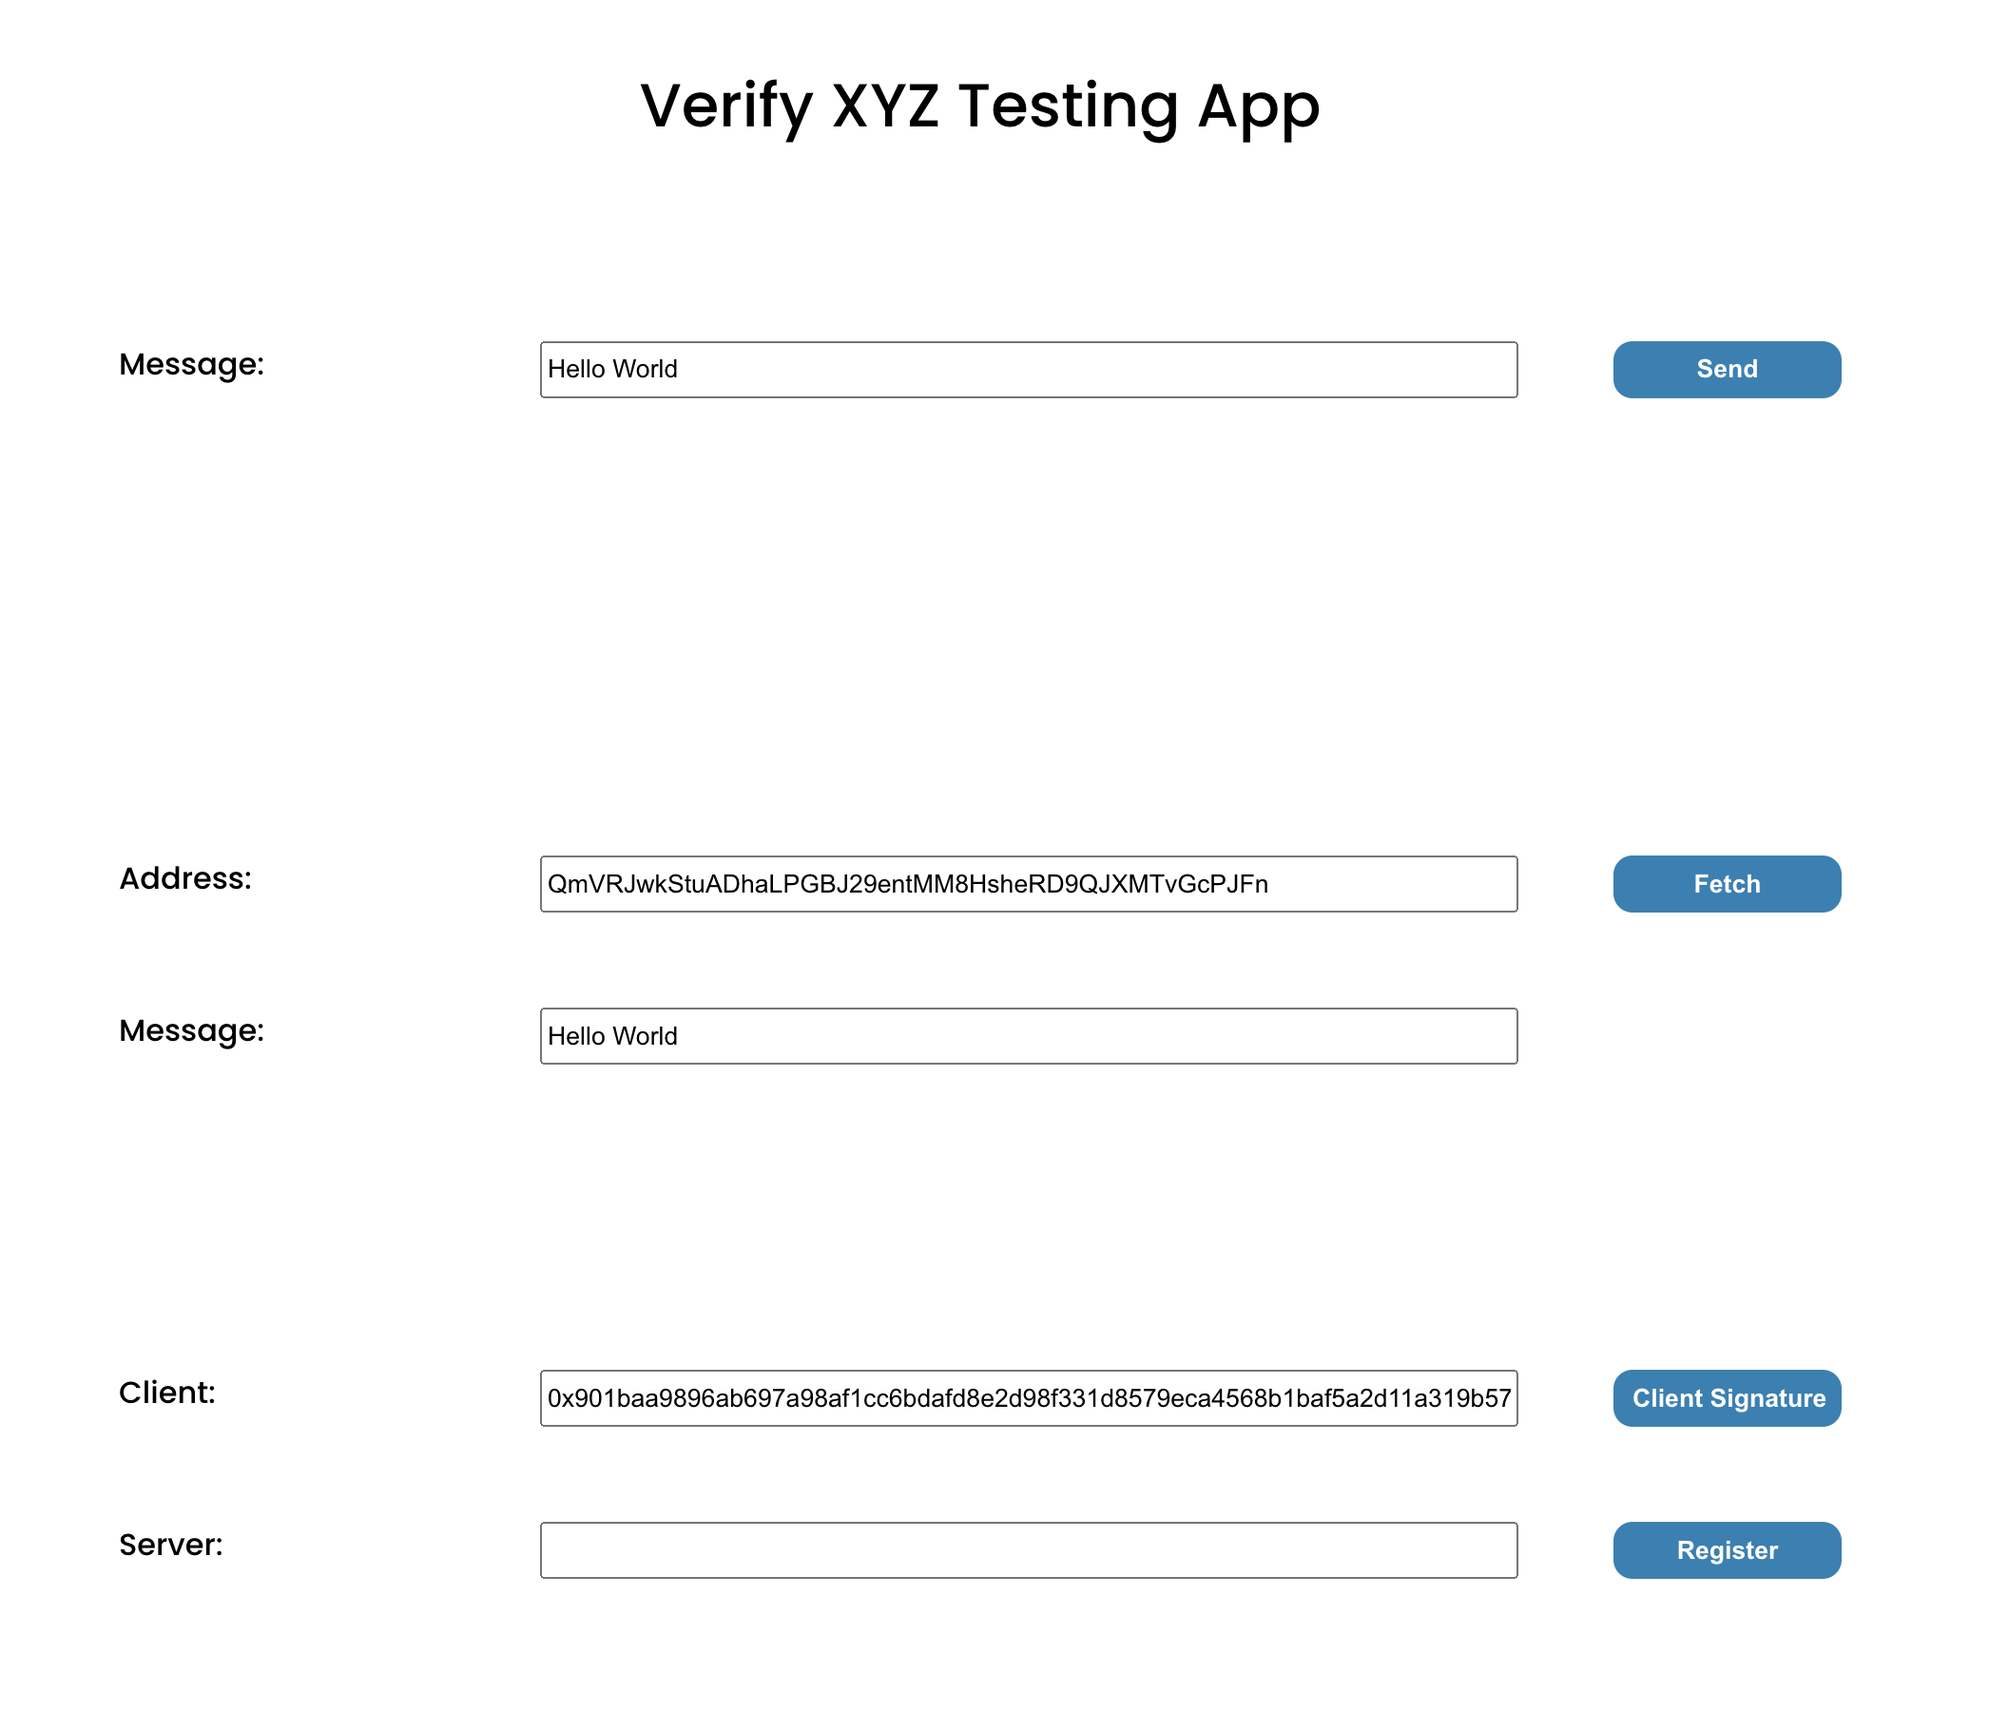
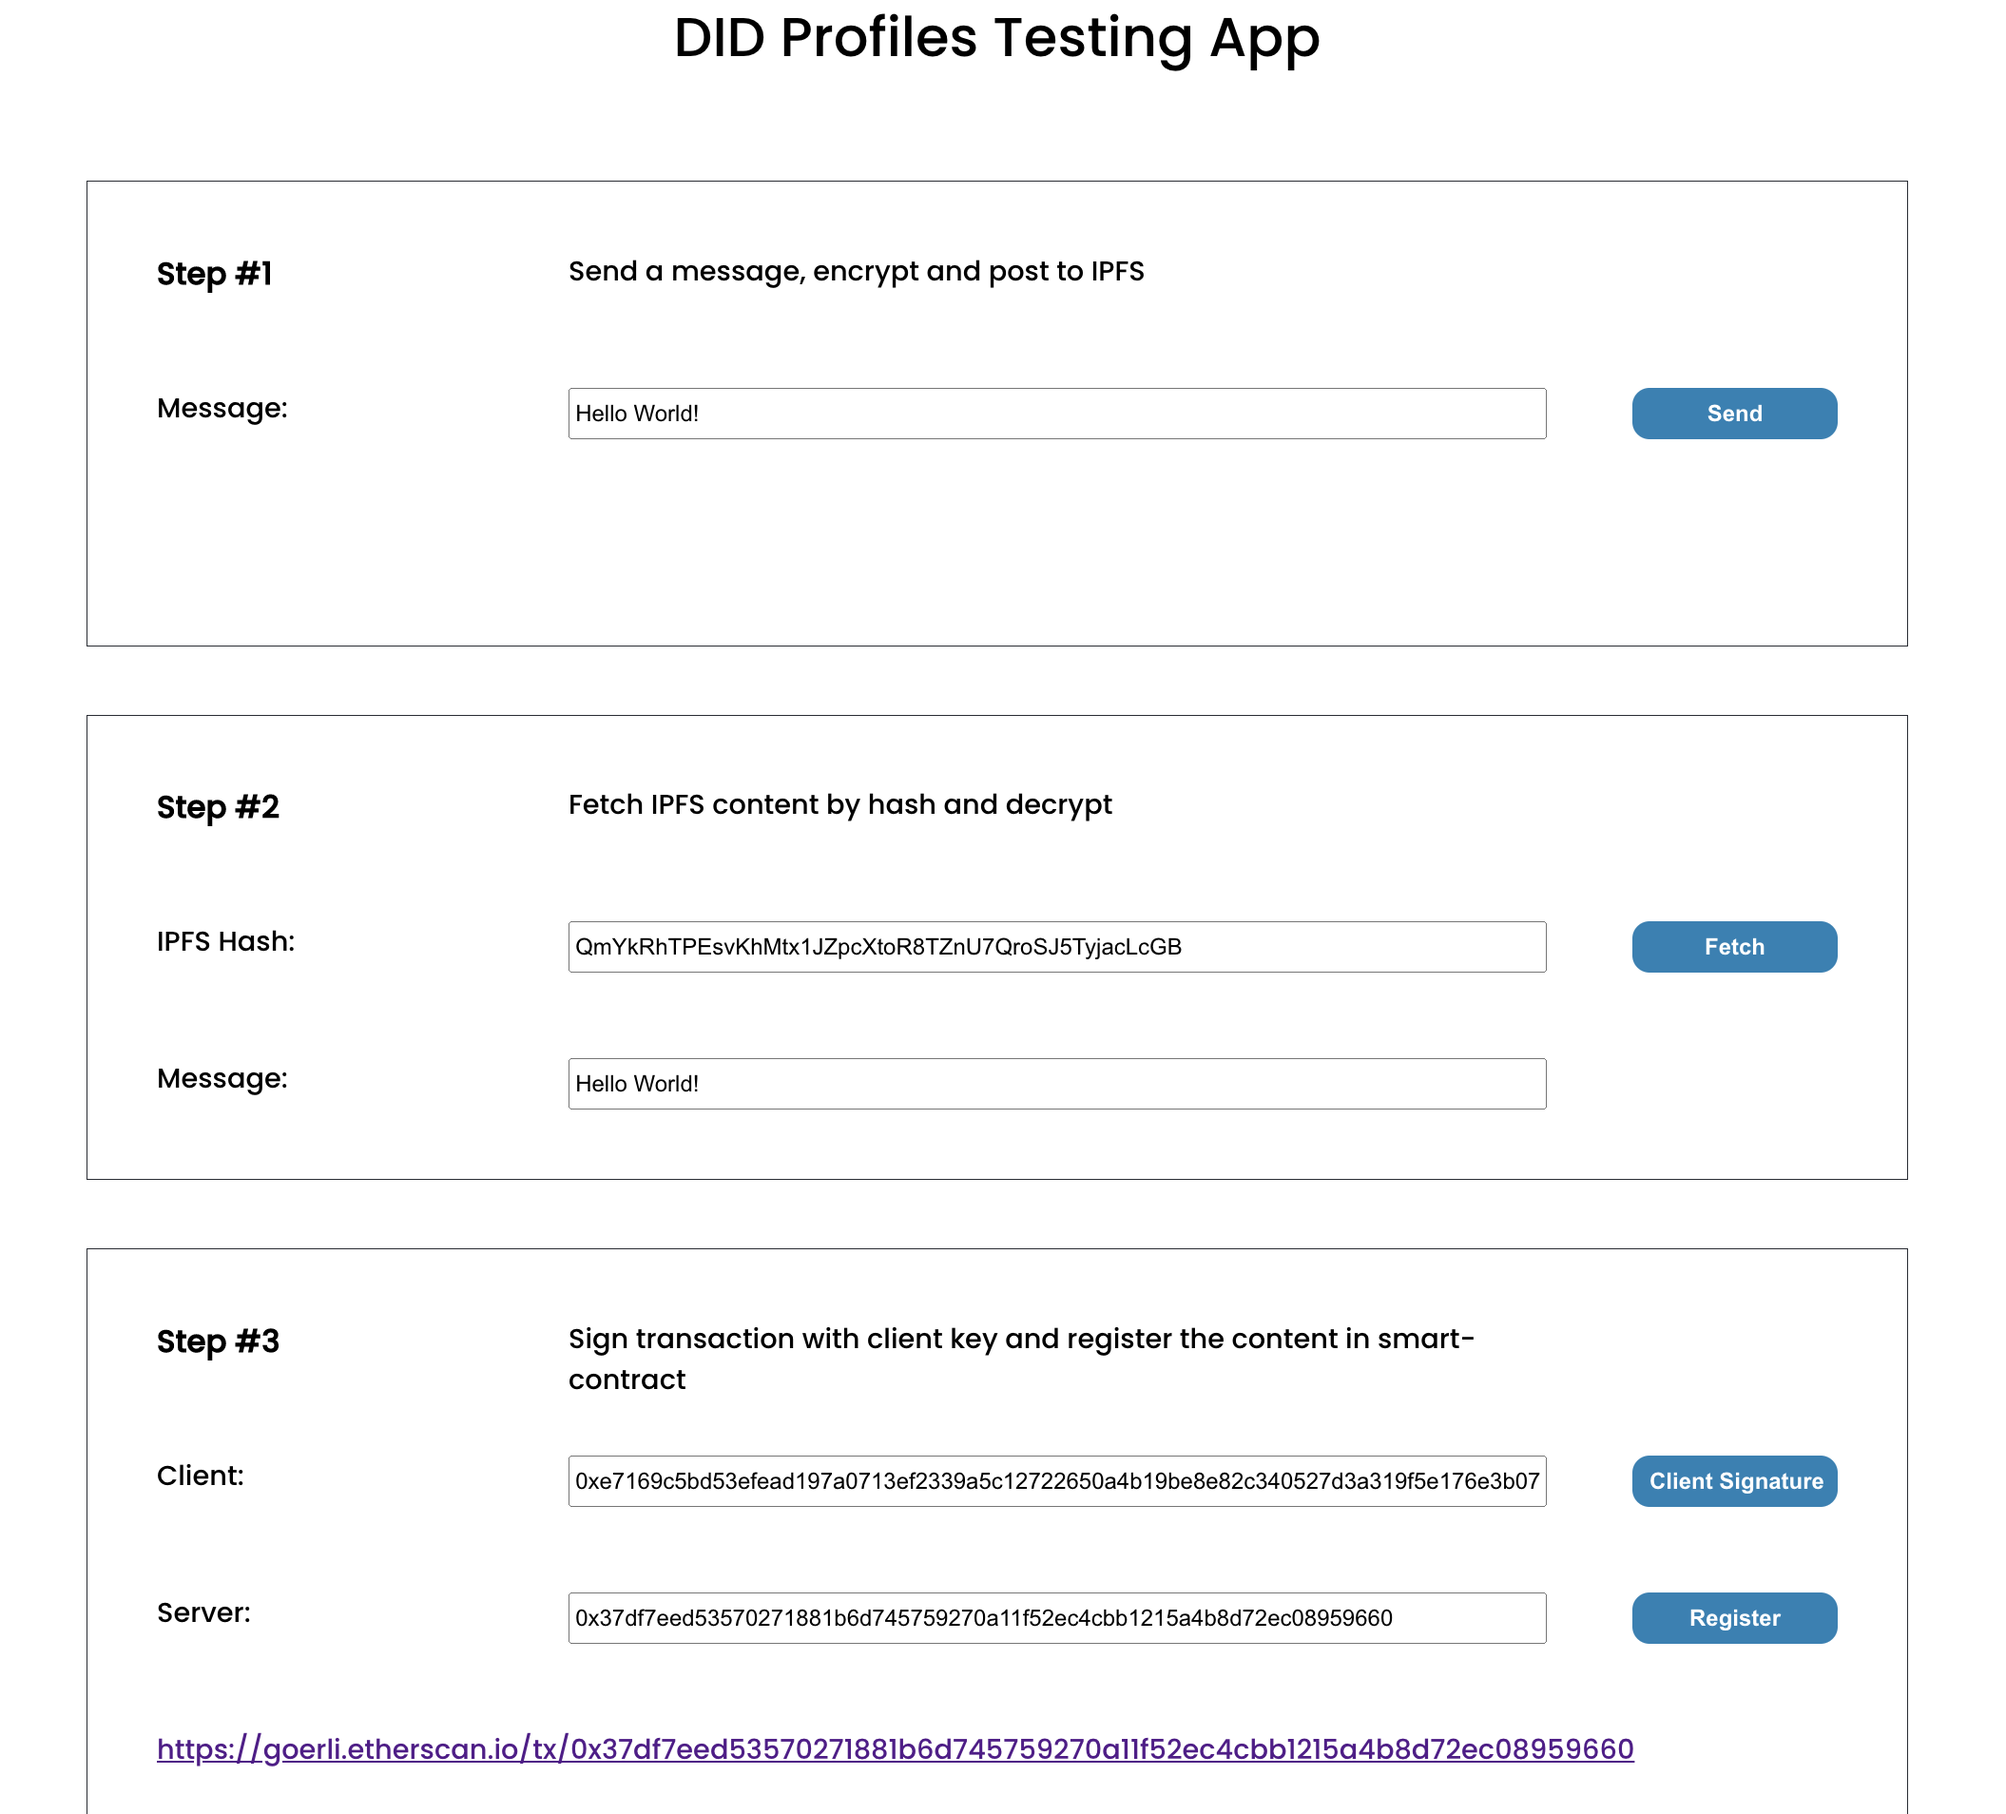
milestone report and testing app step through

diff --git a/frontend/src/App.js b/frontend/src/App.js
@@ -7,6 +7,7 @@ import { ClientSign } from './network/client-sign';
 function App() {
     const [message, setMessage] = useState('');
     const [address, setAddress] = useState('');
+    const [txRecord, setTxRecord] = useState('');
 
     useEffect(() => {
         console.log(message);
@@ -38,29 +39,55 @@ function App() {
     /**
      * Send button clicked - handler function
      */
-    function sendButtonClickedHandler() {
+    async function sendButtonClickedHandler() {
         const inputMessage = window.document.getElementById('messageID').value;
-        sendMessageToIPFS(inputMessage);
         setMessage(inputMessage);
+
+        // Disable button until after response
+        const btn = window.document.getElementById('step1Btn');
+        btn.setAttribute('disabled', 'disabled');
+
+        // Clear subsequent fields
+        window.document.getElementById('clientSignatureID').value = '';
+        window.document.getElementById('serverSignatureID').value = '';
+        window.document.getElementById('receivedMessageID').value = '';
+        window.document.getElementById('addressID').value = '';
+
+        await sendMessageToIPFS(inputMessage);
+
+        btn.removeAttribute('disabled');
     };
 
     /**
      * Fetch button click - handler function
      */
-    function fetchButtonClickedHandler() {
+    async function fetchButtonClickedHandler() {
         const inputAddress = window.document.getElementById('addressID').value;
-        getMessageFromIPFS(inputAddress);
         setAddress(inputAddress);
+
+        // Disable button until after response
+        const btn = window.document.getElementById('step2Btn');
+        btn.setAttribute('disabled', 'disabled');
+
+        // Clear subsequent fields
+        window.document.getElementById('clientSignatureID').value = '';
+        window.document.getElementById('serverSignatureID').value = '';
+        window.document.getElementById('receivedMessageID').value = '';
+
+        await getMessageFromIPFS(inputAddress);
+
+        btn.removeAttribute('disabled');
     };
 
     /**
      * Client signature button click - handler function
      */
     async function clientSignatureButtonClickedHandler() {
+        const clientSigBody = createHardCodedClientSignatureBody();
+
+        // Clear subsequent fields
         window.document.getElementById('clientSignatureID').value = '';
         window.document.getElementById('serverSignatureID').value = '';
-
-        const clientSigBody = createHardCodedClientSignatureBody();
 
         // CLIENT SIGN AT CLIENT SIDE
         const clientSign = new ClientSign();
@@ -73,6 +100,11 @@ function App() {
      * Server register button click - handler function
      */
     async function serverRegisterButtonClickedHandler() {
+        // Disable button until after response
+        const btn = window.document.getElementById('step3Btn');
+        btn.setAttribute('disabled', 'disabled');
+
+        // Clear subsequent fields
         window.document.getElementById('serverSignatureID').value = '';
 
         const registerServiceBody = createHardCodedRegisterServiceBody();
@@ -80,6 +112,10 @@ function App() {
         const registerHash = await ServerAPI.postRegisterService(registerServiceBodyJSON);
 
         window.document.getElementById('serverSignatureID').value = registerHash;
+
+        setTxRecord('https://goerli.etherscan.io/tx/' + registerHash);
+
+        btn.removeAttribute('disabled');
     };
 
     /**
@@ -118,24 +154,30 @@ function App() {
 
     return (
         <div className="appMainContainer">
-            <h1 className="appHeader">Simple React App</h1>
+            <h1 className="appHeader">DID Profiles Testing App</h1>
 
-            <div className="appGridContainer01">
+            <div className="appGridContainer appGridContainer01">
+                <label className="stepLabel">Step #1 </label><div>Send a message, encrypt and post to IPFS</div><div></div>
+
                 <label className="appLabel">Message:</label>
                 <input className="appInput" id='messageID'></input>
-                <button className="appButtonSend" onClick={sendButtonClickedHandler}>Send</button>
+                <button className="appButtonSend" id="step1Btn" onClick={sendButtonClickedHandler}>Send</button>
             </div>
 
-            <div className="appGridContainer02">
-                <label className="appLabelAddress">Address:</label>
+            <div className="appGridContainer appGridContainer02">
+                <label className="stepLabel">Step #2</label><div>Fetch IPFS content by hash and decrypt</div><div></div>
+
+                <label className="appLabelAddress">IPFS Hash:</label>
                 <input className="appInputAddress" id="addressID" readOnly></input>
-                <button className="appButtonFetch" onClick={fetchButtonClickedHandler}>Fetch</button>
+                <button className="appButtonFetch" id="step2Btn" onClick={fetchButtonClickedHandler}>Fetch</button>
 
                 <label className="appLabel">Message:</label>
                 <input className="appInput" id="receivedMessageID" readOnly></input>
             </div>
 
-            <div className="appGridContainer03">
+            <div className="appGridContainer appGridContainer03">
+                <label className="stepLabel">Step #3</label><div>Sign transaction with client key and register the content in smart-contract</div><div></div>
+
                 <label className="appLabelAddress">Client:</label>
                 <input className="appInputAddress" id="clientSignatureID" readOnly></input>
                 <button className="appButtonFetch" onClick={clientSignatureButtonClickedHandler}>Client Signature</button>
@@ -143,7 +185,9 @@ function App() {
 
                 <label className="appLabel">Server:</label>
                 <input className="appInput" id="serverSignatureID" readOnly></input>
-                <button className="appButtonFetch" onClick={serverRegisterButtonClickedHandler}>Register</button>
+                <button className="appButtonFetch" onClick={serverRegisterButtonClickedHandler} id="step3Btn">Register</button>
+
+                {(txRecord && <a href={txRecord} target="_blank" rel="noreferrer">{txRecord}</a>)}
             </div>
         </div>
     );

diff --git a/frontend/src/styles/styleApp.css b/frontend/src/styles/styleApp.css
@@ -44,6 +44,18 @@ textarea:focus, input:focus {
 
 .appHeader {
     min-height: 10px;
+    margin-bottom: 40px;
+}
+
+.stepLabel {
+    font-size: 18px;
+    font-weight: bold;
+}
+
+.appGridContainer {
+    border: #282c34 1px solid;
+    padding: 40px;
+    margin: 20px;
 }
 
 .appGridContainer01 {
@@ -83,6 +95,11 @@ textarea:focus, input:focus {
     white-space: nowrap;
     text-align: center;
     font-weight: bold;
+}
+
+.appButtonSend:disabled, .appButtonFetch:disabled {
+    pointer-events: none;
+    background-color: darkgray;
 }
 
 .appButtonSend:hover {

diff --git a/frontend/public/index.html b/frontend/public/index.html
@@ -7,7 +7,7 @@
     <meta name="theme-color" content="#000000" />
     <meta
       name="description"
-      content="Web site created using create-react-app"
+      content="DID Publish testing app"
     />
     <link rel="apple-touch-icon" href="%PUBLIC_URL%/logo192.png" />
     <!--

diff --git a/reports/milestone_1.md b/reports/milestone_1.md
@@ -1,0 +1,82 @@
+<p align="center">
+  <a href="https://cabanalabs.com" target="blank"><img src="https://cabanalabs.com/_next/static/media/cabana_logo.7bf4fac6.svg" width="200" alt="Cabana Labs, Inc Logo" /></a>
+<span>&nbsp;&nbsp;&nbsp;&nbsp;&nbsp;&nbsp;&nbsp;&nbsp;X&nbsp;&nbsp;&nbsp;&nbsp;&nbsp;&nbsp;&nbsp;&nbsp;&nbsp;</span>
+  <a href="https://cabanalabs.com" target="blank"><img src="https://github.com/verify-xyz/did-profiles/raw/main/assets/verify_logo.png" width="200" alt="Cabana Labs, Inc Logo" /></a>
+</p>
+
+# Development Work Milestone #1 - DID-Publish
+
+## Overview
+
+This milestone includes the DID-Publish phase. User content is entered, encrypted, stored on IPFS and registered in a DID address on the ethr-did-registry smart contract.
+ A NestJS server provides end-points for receiving content, encrypting and coordinating signing and register.
+A client side app is provided to test the features.
+
+## Setting up the ENV
+
+### IPFS server
+
+Follow the instructions in the [readme.md](https://github.com/verify-xyz/did-profiles/tree/dev/ipfs#readme) to run the daemon.
+
+### Backend
+```bash
+cd backend
+npm install
+npm run start
+```
+
+### Frontend
+```bash
+cd frontend
+npm install
+npm run start
+```
+### Using the Testing App
+
+
+<img src="https://github.com/verify-xyz/did-profiles/raw/dev/reports/images/testing_app_1.png" width="600" alt="Cabana Labs, Inc Logo" /></a>
+
+
+### Step #1
+
+Send any message to be encrypted and posted to the local IPFS server
+
+After seeing the IPFS hash in step2 be populated, you can check the IPFS content by command line
+
+For example
+```bash
+curl http://localhost:8080/ipfs/QmZdmJigMEqPqW3pBJHFQAoN8KYjgg5wh4tzbVCwLxXRXR
+```
+The response will be the encrypted content saved to IPFS
+
+Example
+```json
+{
+  "account": {
[1 lines of base64/hex data omitted]
+    "derivedVia": "0x3074b7445C8C2CC1f43DF763f254be8a478257cB",
+    "signedMessage": "I am creating an account to use LIT at 2022-12-14T20:49:17.007Z",
+    "address": "0x3074b7445C8C2CC1f43DF763f254be8a478257cB"
+  },
+  "content": {
[2 lines of base64/hex data omitted]
+  }
+}
+```
+
+
+### Step #2
+
+Request the content from IPFS and decrypt. The message will be decrypted and the same as the original one sent in Step 1.
+
+### Step #3
+
+Click "Client Signature" to sign the register transaction using the client key defined in `.env` file
+
+Click "Register" to initiate a smart-contract call to write the IPFS hash to the DID address of the ethr-did-registry.
+
+## Next steps
+
+In the next phase, "DID-Resolve", we will show how we can resolve a did document from this address, extract the IPFS content registered, fetch the IPFS content, decrypt and then render the content. The combine steps of "DID-Publish" and "DID-Resolve" will then be utilized in a client-side app to show how projects can use this to create and manage decentralized profiles. 
+
